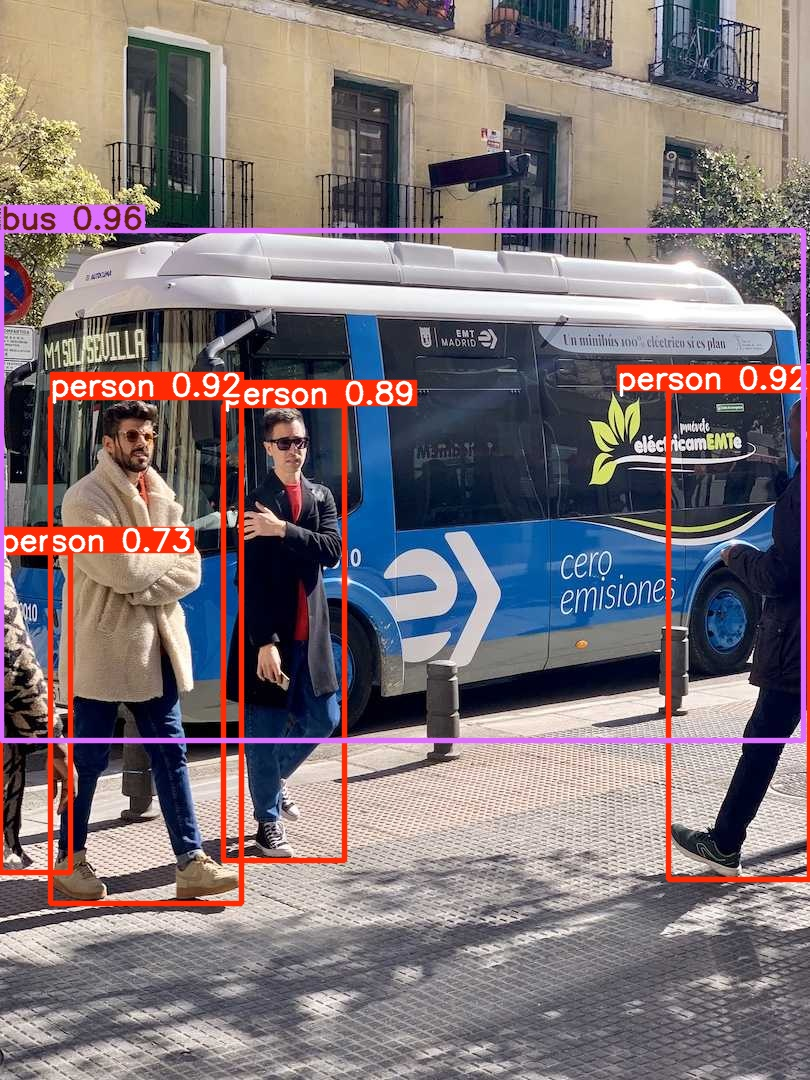
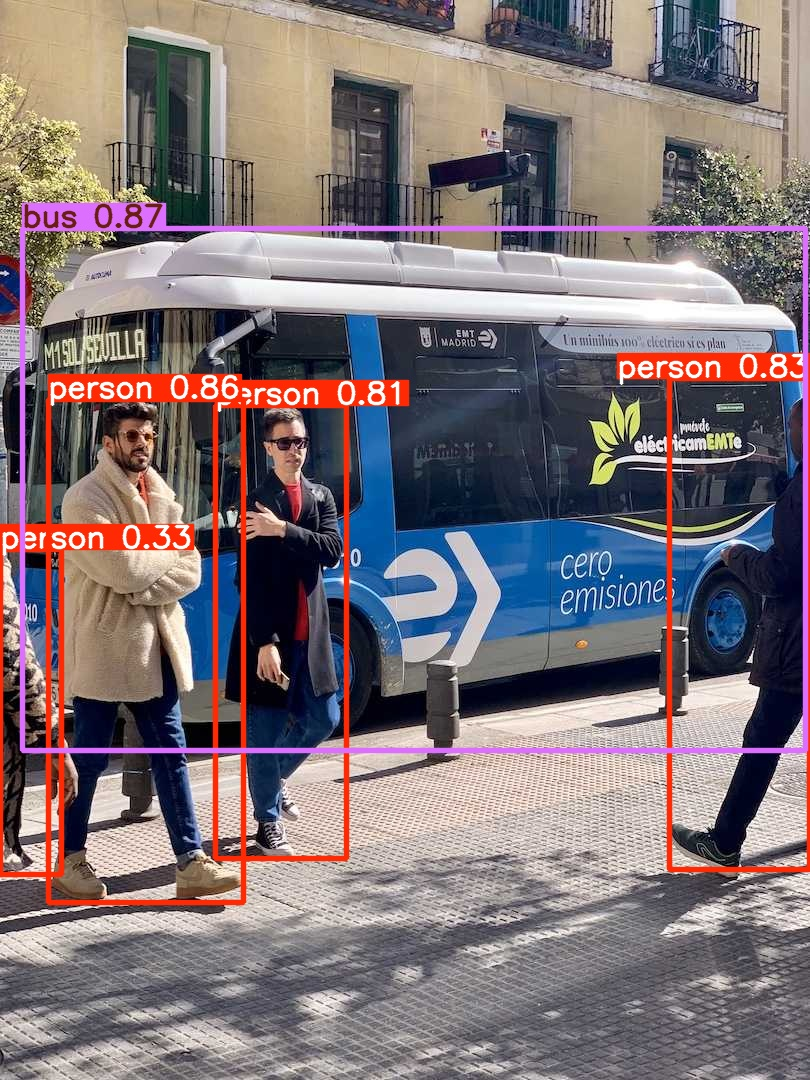
object discovery

Changed region(s): [[0.0, 0.1833, 1.0, 0.8556], [0.2469, 0.1833, 0.463, 0.2139], [0.4938, 0.1833, 0.6173, 0.2139]]

diff --git a/ObjectDiscovery/main.py b/ObjectDiscovery/main.py
@@ -13,7 +13,7 @@ imagem = cv2.imdecode(image_array, cv2.IMREAD_COLOR)
 imagem_rgb = cv2.cvtColor(imagem, cv2.COLOR_BGR2RGB)
 
 # Carrega o modelo pré-treinado (nano = mais leve e rápido)
-model = YOLO('yolov8x.pt')
+model = YOLO('yolov8n.pt')
 
 # Detecta objetos
 results = model(imagem_rgb)
